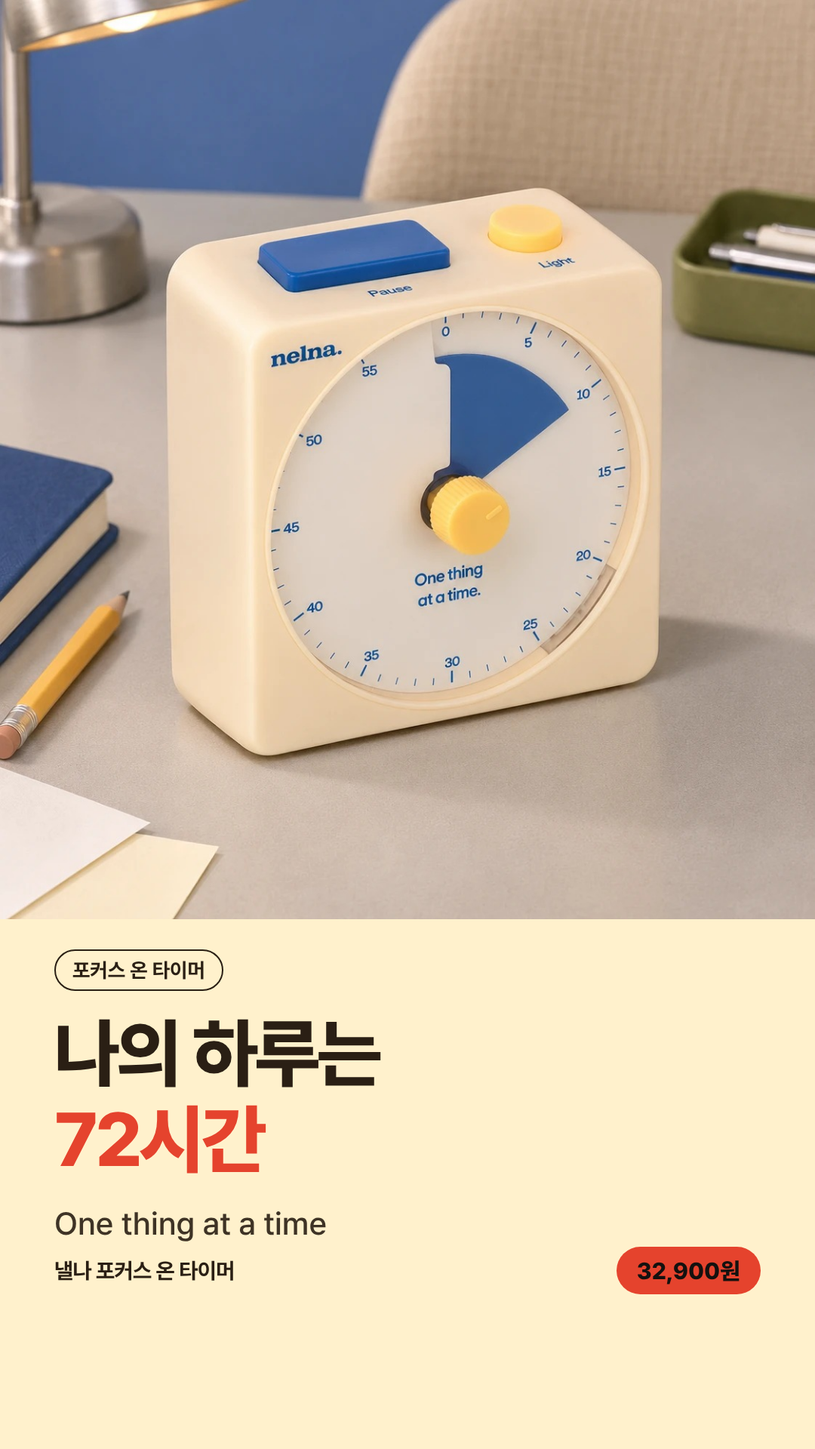
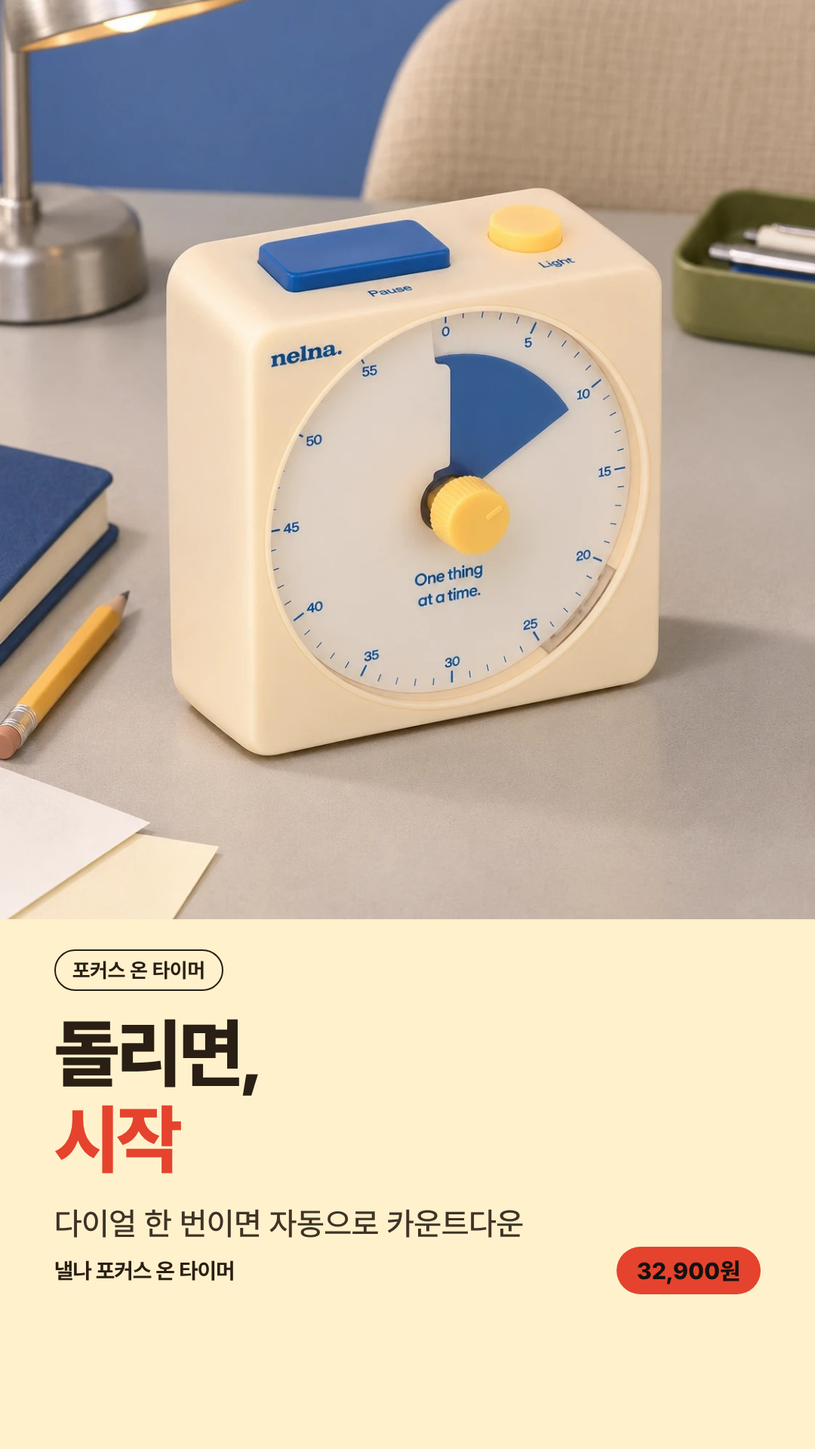
타이머 광고 멘트 전면 교체 (돌리면 시작 / 충전기 말고 건전지 / 폰 말고 타이머 / 인테리어)
Claude-Session: https://claude.ai/code/session_01DXS2KyyyYLycy5YDWmXmGC

Changed region(s): [[0.0611, 0.6875, 0.4583, 0.875], [0.4889, 0.8125, 0.5806, 0.875], [0.6111, 0.8125, 0.6417, 0.875]]

diff --git a/ad-creatives/contact-sheet.html b/ad-creatives/contact-sheet.html
@@ -6,4 +6,4 @@ section{margin-bottom:44px}h2{font-size:20px;margin:0 0 14px}h2 small{color:#888
 figure{margin:0;flex:none;width:300px}figure.s{width:190px}
 img{width:100%;border-radius:10px;display:block;box-shadow:0 2px 10px rgba(0,0,0,.12)}
 figcaption{font-size:12.5px;color:#555;margin-top:8px;line-height:1.45}
-</style></head><body><h1>낼나 광고 소재 컨택트시트</h1><p>피드 4:5 · 스토리 9:16 · 문구 상세는 AD-BRIEF.md</p><section><h2>낼나 포커스 온 타이머 <small>32,900원</small></h2><div class="g"><figure><img loading="lazy" src="out/01-timer_c1_feed.png"><figcaption><b>나의 하루는 72시간</b><br>슬로건 브랜딩 · 컬러별 슬로건 3종을 캐러셀로 확장 가능</figcaption></figure><figure><img loading="lazy" src="out/01-timer_c2_feed.png"><figcaption><b>충전 걱정 없이 6개월</b><br>기능 소구(배터리) · 각주 필수</figcaption></figure><figure><img loading="lazy" src="out/01-timer_c3_feed.png"><figcaption><b>내 성향대로 고르는 알람</b><br>성향 맞춤 · 공부/회의/휴식/SNS 시간 제한 다용도로 확장</figcaption></figure><figure><img loading="lazy" src="out/01-timer_t1_feed.png"><figcaption><b>사진 합성 t1</b><br>나의 하루는 72시간</figcaption></figure><figure><img loading="lazy" src="out/01-timer_t2_feed.png"><figcaption><b>사진 합성 t2</b><br>집중할 땐 조용히, 쉴 땐 당당하게</figcaption></figure><figure><img loading="lazy" src="out/01-timer_t3_feed.png"><figcaption><b>사진 합성 t3</b><br>데스크 위 작은 몰입 스위치</figcaption></figure><figure><img loading="lazy" src="out/01-timer_t4_feed.png"><figcaption><b>사진 합성 t4</b><br>나의 하루는 72시간</figcaption></figure><figure class="s"><img loading="lazy" src="out/01-timer_c1_story.png"><figcaption>스토리/릴스 커버 (c1)</figcaption></figure></div></section><section><h2>낼나 무궁무진 거치대 <small>109,000원</small></h2><div class="g"><figure><img loading="lazy" src="out/02-stand_c1_feed.png"><figcaption><b>거치대, 이제 하나만</b><br>문제 공감(여러 개 사는 불편) → 올인원 해결</figcaption></figure><figure><img loading="lazy" src="out/02-stand_c2_feed.png"><figcaption><b>접으면 4.6mm</b><br>휴대성 수치 소구 · 비교 모델 표기 확인 필요</figcaption></figure><figure><img loading="lazy" src="out/02-stand_c3_feed.png"><figcaption><b>집에서 카페로, 가방 속 작업실</b><br>라이프스타일 · 4단계 각도</figcaption></figure><figure><img loading="lazy" src="out/02-stand_p1_feed.png"><figcaption><b>사진 합성 p1</b><br>집에서 카페로, 가방 속 작업 공간</figcaption></figure><figure><img loading="lazy" src="out/02-stand_p2_feed.png"><figcaption><b>사진 합성 p2</b><br>책 읽을 때도, 태블릿 쓸 때도, 노트북으로 일할 때도. 매번 다른 거치대가 필요했나요?</figcaption></figure><figure class="s"><img loading="lazy" src="out/02-stand_c1_story.png"><figcaption>스토리/릴스 커버 (c1)</figcaption></figure></div></section><section><h2>낼나 펜슬 아이패드용 <small>82,900원</small></h2><div class="g"><figure><img loading="lazy" src="out/03-pencil_c1_feed.png"><figcaption><b>연필 감성 10,000% 아이패드 펜슬</b><br>감성 훅(소리) · 디자인 차별화</figcaption></figure><figure><img loading="lazy" src="out/03-pencil_c2_feed.png"><figcaption><b>레드닷 수상, 3g 더 가벼운 펜슬</b><br>신뢰(수상) + 스펙 비교 · 근거 보관 필요</figcaption></figure><figure><img loading="lazy" src="out/03-pencil_c3_feed.png"><figcaption><b>1초 만에 깨어나는 펜슬</b><br>기능 소구 · 시험 근거 확인 필요</figcaption></figure><figure><img loading="lazy" src="out/03-pencil_p1_feed.png"><figcaption><b>사진 합성 p1</b><br>사각사각 소리가 들리는 것 같지 않나요?</figcaption></figure><figure><img loading="lazy" src="out/03-pencil_p2_feed.png"><figcaption><b>사진 합성 p2</b><br>10만 번 눌러도 끄떡없는 물리 버튼</figcaption></figure><figure class="s"><img loading="lazy" src="out/03-pencil_c1_story.png"><figcaption>스토리/릴스 커버 (c1)</figcaption></figure></div></section><section><h2>낼나 스크런치 케이블 세트 <small>38,900원</small></h2><div class="g"><figure><img loading="lazy" src="out/04-scrunchie_c1_feed.png"><figcaption><b>스트랩 하나로 끝</b><br>문제 공감(2가지 사고) → 1개로 해결</figcaption></figure><figure><img loading="lazy" src="out/04-scrunchie_c2_feed.png"><figcaption><b>케이블이 숨어있는 폰스트랩</b><br>디자인 소구</figcaption></figure><figure><img loading="lazy" src="out/04-scrunchie_c3_feed.png"><figcaption><b>60W 고속충전 폰스트랩</b><br>스펙 소구 · 각주 필수</figcaption></figure><figure><img loading="lazy" src="out/04-scrunchie_p1_feed.png"><figcaption><b>사진 합성 p1</b><br>또 떨어뜨렸어요. 또 충전선 놓고 나왔어요. 스트랩 하나로 끝</figcaption></figure><figure><img loading="lazy" src="out/04-scrunchie_p2_feed.png"><figcaption><b>사진 합성 p2</b><br>예쁘면서 충전까지 되는 폰 스트랩</figcaption></figure><figure class="s"><img loading="lazy" src="out/04-scrunchie_c1_story.png"><figcaption>스토리/릴스 커버 (c1)</figcaption></figure></div></section><section><h2>낼나 나다운 연력 2027 <small>19,500원</small></h2><div class="g"><figure><img loading="lazy" src="out/05-yeonryeok_c1_feed.png"><figcaption><b>1년이 한 장에, 항상 눈앞에</b><br>제품 컨셉 직관 전달</figcaption></figure><figure><img loading="lazy" src="out/05-yeonryeok_c2_feed.png"><figcaption><b>찍기만 해도 기록이에요</b><br>부담 없는 기록 톤 · 다이어리 포기 경험 공감</figcaption></figure><figure><img loading="lazy" src="out/05-yeonryeok_c3_feed.png"><figcaption><b>나다운 1년이 한눈에</b><br>연말 회고 영상/게시물용</figcaption></figure><figure><img loading="lazy" src="out/05-yeonryeok_p1_feed.png"><figcaption><b>사진 합성 p1</b><br>1년이 한 장에, 항상 눈앞에</figcaption></figure><figure><img loading="lazy" src="out/05-yeonryeok_p2_feed.png"><figcaption><b>사진 합성 p2</b><br>쓰기 귀찮은 날엔 콕, 찍기만 하세요. 그것도 기록이에요</figcaption></figure><figure class="s"><img loading="lazy" src="out/05-yeonryeok_c1_story.png"><figcaption>스토리/릴스 커버 (c1)</figcaption></figure></div></section><section><h2>낼나 2027 그랩&amp;스크랩 박스 <small>34,500원</small></h2><div class="g"><figure><img loading="lazy" src="out/06-grabscrap_c1_feed.png"><figcaption><b>올해의 끝, 내년의 시작</b><br>연말 감성 · 선물 소구</figcaption></figure><figure><img loading="lazy" src="out/06-grabscrap_c2_feed.png"><figcaption><b>나에게 보내는 타임캡슐 액자</b><br>경험 소구(개봉) · 반응 높을 훅</figcaption></figure><figure><img loading="lazy" src="out/06-grabscrap_c3_feed.png"><figcaption><b>추억이 벽 위 인테리어가 됩니다</b><br>인테리어 소구</figcaption></figure><figure><img loading="lazy" src="out/06-grabscrap_p1_feed.png"><figcaption><b>사진 합성 p1</b><br>올해의 끝을 붙잡고, 내년을 차곡차곡 쌓아가요</figcaption></figure><figure><img loading="lazy" src="out/06-grabscrap_p2_feed.png"><figcaption><b>사진 합성 p2</b><br>다짐은 봉인하고, 1년 뒤 연말에 열어보세요</figcaption></figure><figure class="s"><img loading="lazy" src="out/06-grabscrap_c1_story.png"><figcaption>스토리/릴스 커버 (c1)</figcaption></figure></div></section><section><h2>낼나 플레이온 키링 어댑터 <small>23,200원</small></h2><div class="g"><figure><img loading="lazy" src="out/07-playon_c1_feed.png"><figcaption><b>이거, 사실 충전기예요</b><br>반전 훅 · 소재 임팩트 최상 (우선 테스트)</figcaption></figure><figure><img loading="lazy" src="out/07-playon_c2_feed.png"><figcaption><b>충전기를 키링처럼</b><br>발상 전환</figcaption></figure><figure><img loading="lazy" src="out/07-playon_c3_feed.png"><figcaption><b>88g, 가방에 걸어두는 충전기</b><br>무게 소구 + 안전성 신뢰</figcaption></figure><figure><img loading="lazy" src="out/07-playon_p1_feed.png"><figcaption><b>사진 합성 p1</b><br>귀여운 MP3 플레이어인 줄 알았죠? 사실은 30W 충전기예요</figcaption></figure><figure><img loading="lazy" src="out/07-playon_p2_feed.png"><figcaption><b>사진 합성 p2</b><br>충전기는 왜 항상 가방 속에 있어야 할까요?</figcaption></figure><figure class="s"><img loading="lazy" src="out/07-playon_c1_story.png"><figcaption>스토리/릴스 커버 (c1)</figcaption></figure></div></section><section><h2>2027 낼나다이어리 <small>에센셜 16,900원 · 시그니처 19,900원</small></h2><div class="g"><figure><img loading="lazy" src="out/08-diary_c1_feed.png"><figcaption><b>계획은 늘 바뀌어요, 괜찮아요</b><br>수정 스트레스 공감 훅 (우선 테스트)</figcaption></figure><figure><img loading="lazy" src="out/08-diary_c2_feed.png"><figcaption><b>일정 아이콘 한 번이면</b><br>직장인 타깃 · 기능 소구 · 정확한 표현 필수</figcaption></figure><figure><img loading="lazy" src="out/08-diary_c3_feed.png"><figcaption><b>11월에 사도 15개월</b><br>시즌 타깃팅 (지금 구매 이유)</figcaption></figure><figure><img loading="lazy" src="out/08-diary_c4_feed.png"><figcaption><b>3개월마다 다시 시작해요</b><br>작심삼일 공감 · 버전 가격 병기</figcaption></figure><figure class="s"><img loading="lazy" src="out/08-diary_c1_story.png"><figcaption>스토리/릴스 커버 (c1)</figcaption></figure></div></section></body></html>
+</style></head><body><h1>낼나 광고 소재 컨택트시트</h1><p>피드 4:5 · 스토리 9:16 · 문구 상세는 AD-BRIEF.md</p><section><h2>낼나 포커스 온 타이머 <small>32,900원</small></h2><div class="g"><figure><img loading="lazy" src="out/01-timer_c1_feed.png"><figcaption><b>돌리면, 시작</b><br>사용 간편성 · 한 줄 훅 (우선 테스트)</figcaption></figure><figure><img loading="lazy" src="out/01-timer_c2_feed.png"><figcaption><b>충전기 말고, 건전지 하나</b><br>기능 소구(배터리) · 각주 필수</figcaption></figure><figure><img loading="lazy" src="out/01-timer_c3_feed.png"><figcaption><b>폰 말고, 타이머에게</b><br>문제 공감(폰 시간) → 용도 확장</figcaption></figure><figure><img loading="lazy" src="out/01-timer_c4_feed.png"><figcaption><b>인테리어가 되는 타이머</b><br>디자인 · 데스크테리어 + 알람/거치 스펙</figcaption></figure><figure><img loading="lazy" src="out/01-timer_t1_feed.png"><figcaption><b>사진 합성 t1</b><br>돌리면, 시작</figcaption></figure><figure><img loading="lazy" src="out/01-timer_t2_feed.png"><figcaption><b>사진 합성 t2</b><br>폰 말고 타이머에게 맡기세요</figcaption></figure><figure><img loading="lazy" src="out/01-timer_t3_feed.png"><figcaption><b>사진 합성 t3</b><br>충전기 말고, 건전지 하나</figcaption></figure><figure><img loading="lazy" src="out/01-timer_t4_feed.png"><figcaption><b>사진 합성 t4</b><br>책상 위에 두면 인테리어가 되는 타이머</figcaption></figure><figure class="s"><img loading="lazy" src="out/01-timer_c1_story.png"><figcaption>스토리/릴스 커버 (c1)</figcaption></figure></div></section><section><h2>낼나 무궁무진 거치대 <small>109,000원</small></h2><div class="g"><figure><img loading="lazy" src="out/02-stand_c1_feed.png"><figcaption><b>거치대, 이제 하나만</b><br>문제 공감(여러 개 사는 불편) → 올인원 해결</figcaption></figure><figure><img loading="lazy" src="out/02-stand_c2_feed.png"><figcaption><b>접으면 4.6mm</b><br>휴대성 수치 소구 · 비교 모델 표기 확인 필요</figcaption></figure><figure><img loading="lazy" src="out/02-stand_c3_feed.png"><figcaption><b>집에서 카페로, 가방 속 작업실</b><br>라이프스타일 · 4단계 각도</figcaption></figure><figure><img loading="lazy" src="out/02-stand_p1_feed.png"><figcaption><b>사진 합성 p1</b><br>집에서 카페로, 가방 속 작업 공간</figcaption></figure><figure><img loading="lazy" src="out/02-stand_p2_feed.png"><figcaption><b>사진 합성 p2</b><br>책 읽을 때도, 태블릿 쓸 때도, 노트북으로 일할 때도. 매번 다른 거치대가 필요했나요?</figcaption></figure><figure class="s"><img loading="lazy" src="out/02-stand_c1_story.png"><figcaption>스토리/릴스 커버 (c1)</figcaption></figure></div></section><section><h2>낼나 펜슬 아이패드용 <small>82,900원</small></h2><div class="g"><figure><img loading="lazy" src="out/03-pencil_c1_feed.png"><figcaption><b>연필 감성 10,000% 아이패드 펜슬</b><br>감성 훅(소리) · 디자인 차별화</figcaption></figure><figure><img loading="lazy" src="out/03-pencil_c2_feed.png"><figcaption><b>레드닷 수상, 3g 더 가벼운 펜슬</b><br>신뢰(수상) + 스펙 비교 · 근거 보관 필요</figcaption></figure><figure><img loading="lazy" src="out/03-pencil_c3_feed.png"><figcaption><b>1초 만에 깨어나는 펜슬</b><br>기능 소구 · 시험 근거 확인 필요</figcaption></figure><figure><img loading="lazy" src="out/03-pencil_p1_feed.png"><figcaption><b>사진 합성 p1</b><br>사각사각 소리가 들리는 것 같지 않나요?</figcaption></figure><figure><img loading="lazy" src="out/03-pencil_p2_feed.png"><figcaption><b>사진 합성 p2</b><br>10만 번 눌러도 끄떡없는 물리 버튼</figcaption></figure><figure class="s"><img loading="lazy" src="out/03-pencil_c1_story.png"><figcaption>스토리/릴스 커버 (c1)</figcaption></figure></div></section><section><h2>낼나 스크런치 케이블 세트 <small>38,900원</small></h2><div class="g"><figure><img loading="lazy" src="out/04-scrunchie_c1_feed.png"><figcaption><b>스트랩 하나로 끝</b><br>문제 공감(2가지 사고) → 1개로 해결</figcaption></figure><figure><img loading="lazy" src="out/04-scrunchie_c2_feed.png"><figcaption><b>케이블이 숨어있는 폰스트랩</b><br>디자인 소구</figcaption></figure><figure><img loading="lazy" src="out/04-scrunchie_c3_feed.png"><figcaption><b>60W 고속충전 폰스트랩</b><br>스펙 소구 · 각주 필수</figcaption></figure><figure><img loading="lazy" src="out/04-scrunchie_p1_feed.png"><figcaption><b>사진 합성 p1</b><br>또 떨어뜨렸어요. 또 충전선 놓고 나왔어요. 스트랩 하나로 끝</figcaption></figure><figure><img loading="lazy" src="out/04-scrunchie_p2_feed.png"><figcaption><b>사진 합성 p2</b><br>예쁘면서 충전까지 되는 폰 스트랩</figcaption></figure><figure class="s"><img loading="lazy" src="out/04-scrunchie_c1_story.png"><figcaption>스토리/릴스 커버 (c1)</figcaption></figure></div></section><section><h2>낼나 나다운 연력 2027 <small>19,500원</small></h2><div class="g"><figure><img loading="lazy" src="out/05-yeonryeok_c1_feed.png"><figcaption><b>1년이 한 장에, 항상 눈앞에</b><br>제품 컨셉 직관 전달</figcaption></figure><figure><img loading="lazy" src="out/05-yeonryeok_c2_feed.png"><figcaption><b>찍기만 해도 기록이에요</b><br>부담 없는 기록 톤 · 다이어리 포기 경험 공감</figcaption></figure><figure><img loading="lazy" src="out/05-yeonryeok_c3_feed.png"><figcaption><b>나다운 1년이 한눈에</b><br>연말 회고 영상/게시물용</figcaption></figure><figure><img loading="lazy" src="out/05-yeonryeok_p1_feed.png"><figcaption><b>사진 합성 p1</b><br>1년이 한 장에, 항상 눈앞에</figcaption></figure><figure><img loading="lazy" src="out/05-yeonryeok_p2_feed.png"><figcaption><b>사진 합성 p2</b><br>쓰기 귀찮은 날엔 콕, 찍기만 하세요. 그것도 기록이에요</figcaption></figure><figure class="s"><img loading="lazy" src="out/05-yeonryeok_c1_story.png"><figcaption>스토리/릴스 커버 (c1)</figcaption></figure></div></section><section><h2>낼나 2027 그랩&amp;스크랩 박스 <small>34,500원</small></h2><div class="g"><figure><img loading="lazy" src="out/06-grabscrap_c1_feed.png"><figcaption><b>올해의 끝, 내년의 시작</b><br>연말 감성 · 선물 소구</figcaption></figure><figure><img loading="lazy" src="out/06-grabscrap_c2_feed.png"><figcaption><b>나에게 보내는 타임캡슐 액자</b><br>경험 소구(개봉) · 반응 높을 훅</figcaption></figure><figure><img loading="lazy" src="out/06-grabscrap_c3_feed.png"><figcaption><b>추억이 벽 위 인테리어가 됩니다</b><br>인테리어 소구</figcaption></figure><figure><img loading="lazy" src="out/06-grabscrap_p1_feed.png"><figcaption><b>사진 합성 p1</b><br>올해의 끝을 붙잡고, 내년을 차곡차곡 쌓아가요</figcaption></figure><figure><img loading="lazy" src="out/06-grabscrap_p2_feed.png"><figcaption><b>사진 합성 p2</b><br>다짐은 봉인하고, 1년 뒤 연말에 열어보세요</figcaption></figure><figure class="s"><img loading="lazy" src="out/06-grabscrap_c1_story.png"><figcaption>스토리/릴스 커버 (c1)</figcaption></figure></div></section><section><h2>낼나 플레이온 키링 어댑터 <small>23,200원</small></h2><div class="g"><figure><img loading="lazy" src="out/07-playon_c1_feed.png"><figcaption><b>이거, 사실 충전기예요</b><br>반전 훅 · 소재 임팩트 최상 (우선 테스트)</figcaption></figure><figure><img loading="lazy" src="out/07-playon_c2_feed.png"><figcaption><b>충전기를 키링처럼</b><br>발상 전환</figcaption></figure><figure><img loading="lazy" src="out/07-playon_c3_feed.png"><figcaption><b>88g, 가방에 걸어두는 충전기</b><br>무게 소구 + 안전성 신뢰</figcaption></figure><figure><img loading="lazy" src="out/07-playon_p1_feed.png"><figcaption><b>사진 합성 p1</b><br>귀여운 MP3 플레이어인 줄 알았죠? 사실은 30W 충전기예요</figcaption></figure><figure><img loading="lazy" src="out/07-playon_p2_feed.png"><figcaption><b>사진 합성 p2</b><br>충전기는 왜 항상 가방 속에 있어야 할까요?</figcaption></figure><figure class="s"><img loading="lazy" src="out/07-playon_c1_story.png"><figcaption>스토리/릴스 커버 (c1)</figcaption></figure></div></section><section><h2>2027 낼나다이어리 <small>에센셜 16,900원 · 시그니처 19,900원</small></h2><div class="g"><figure><img loading="lazy" src="out/08-diary_c1_feed.png"><figcaption><b>계획은 늘 바뀌어요, 괜찮아요</b><br>수정 스트레스 공감 훅 (우선 테스트)</figcaption></figure><figure><img loading="lazy" src="out/08-diary_c2_feed.png"><figcaption><b>일정 아이콘 한 번이면</b><br>직장인 타깃 · 기능 소구 · 정확한 표현 필수</figcaption></figure><figure><img loading="lazy" src="out/08-diary_c3_feed.png"><figcaption><b>11월에 사도 15개월</b><br>시즌 타깃팅 (지금 구매 이유)</figcaption></figure><figure><img loading="lazy" src="out/08-diary_c4_feed.png"><figcaption><b>3개월마다 다시 시작해요</b><br>작심삼일 공감 · 버전 가격 병기</figcaption></figure><figure class="s"><img loading="lazy" src="out/08-diary_c1_story.png"><figcaption>스토리/릴스 커버 (c1)</figcaption></figure></div></section></body></html>

diff --git a/ad-creatives/AD-BRIEF.md b/ad-creatives/AD-BRIEF.md
@@ -28,51 +28,65 @@
 ### 집행 전 확인
 
 - “6개월”은 **하루 3시간 사용 기준**이라 소재에 각주를 꼭 넣었습니다. 각주 없이 “6개월”만 쓰지 마세요.
-- 건전지 포함 여부, 건전지 종류 수량이 상세페이지 요약에 없습니다. “충전 필요 없음”까지만 말하고 “건전지 포함”은 확인 후 사용하세요.
-- “단 1시간의 집중력이 내일을 바꿉니다”는 효과 보장처럼 읽힐 수 있어 광고 본문에는 쓰지 않았습니다(상세페이지 용도로만).
-- “디자인 등록 완료”를 광고에 쓰려면 등록번호 확인이 필요합니다.
+- 건전지 포함 여부, 건전지 수량이 상세페이지 요약에 없습니다. “충전 필요 없음”까지만 말하고 “건전지 포함”은 확인 후 사용하세요.
+- “폰 말고 타이머에게” 소재는 사용 예시(SNS 시간 제한 등)를 보여주는 표현입니다. 집중력 향상 같은 효과를 보장하는 문구는 쓰지 않았습니다.
+- “디자인 등록 완료”를 광고에 쓰려면 등록번호 확인이 필요합니다(이번 소재에는 넣지 않았습니다).
+- “10가지 알람”은 소리(무음/작게/크게) × 길이(3초/30초) × 라이트 조합 수치입니다. 숫자를 바꿀 땐 상세페이지와 맞추세요.
 
 ### 소재
 
-#### 01-timer_c1 · statement · 슬로건 브랜딩 · 컬러별 슬로건 3종을 캐러셀로 확장 가능
+#### 01-timer_c1 · statement · 사용 간편성 · 한 줄 훅 (우선 테스트)
 
 ![01-timer_c1](out/01-timer_c1_feed.png)
 
-- **이미지 문구**: 나의 하루는 72시간
-- **메타 헤드라인**: 나의 하루는 72시간
-- **메타 설명**: 낼나 포커스 온 타이머 32,900원
+- **이미지 문구**: 돌리면, 시작
+- **메타 헤드라인**: 돌리면, 시작
+- **메타 설명**: 다이얼 한 번이면 자동 카운트다운
 - **CTA 버튼**: 지금 쇼핑하기
 - **본문**:
 
-  > 하루는 24시간인데, 집중하면 72시간처럼 쓸 수 있다면?
-  > 다이얼만 돌리면 바로 카운트다운. 클래식·버터·토마토, 책상 위에 두면 인테리어까지.
+  > 공부할 때도, 회의할 때도, 잠깐 쉴 때도.
+  > 다이얼만 돌리면 바로 카운트다운이 시작돼요. 클래식·버터·토마토, 책상 위에 두면 인테리어까지.
 
 #### 01-timer_c2 · stat · 기능 소구(배터리) · 각주 필수
 
 ![01-timer_c2](out/01-timer_c2_feed.png)
 
-- **이미지 문구**: 데스크 위 작은 몰입 스위치
-- **메타 헤드라인**: 충전 걱정 없이 6개월
-- **메타 설명**: 다이얼만 돌리면 바로 시작
+- **이미지 문구**: 충전기 말고, 건전지 하나
+- **메타 헤드라인**: 충전기 말고, 건전지 하나
+- **메타 설명**: 하루 3시간 사용 기준 6개월
 - **CTA 버튼**: 지금 쇼핑하기
 - **본문**:
 
-  > 충전하는 걸 깜빡해서 타이머가 꺼져 있던 적 있나요?
-  > 건전지로 쓰는 포커스 온 타이머는 매일 3시간씩 써도 6개월을 씁니다.
+  > 책상 위 타이머까지 충전해야 한다면 너무 번거롭잖아요.
+  > AAA건전지 방식이라 충전 없이 쓰고, 하루 3시간씩 써도 6개월을 씁니다.
   > * 하루 3시간 사용 기준
 
-#### 01-timer_c3 · list · 성향 맞춤 · 공부/회의/휴식/SNS 시간 제한 다용도로 확장
+#### 01-timer_c3 · chat · 문제 공감(폰 시간) → 용도 확장
 
 ![01-timer_c3](out/01-timer_c3_feed.png)
 
-- **이미지 문구**: 집중할 땐 조용히, 쉴 땐 당당하게
-- **메타 헤드라인**: 내 성향대로 고르는 알람
-- **메타 설명**: 무음 / 작게 / 크게 × 3초 / 30초 × 라이트
+- **이미지 문구**: 공부할 때도, 회의할 때도, 쉴 때도. / 폰 말고 타이머에게 맡기세요
+- **메타 헤드라인**: 폰 말고, 타이머에게
+- **메타 설명**: 공부·회의·휴식·SNS 시간 제한
 - **CTA 버튼**: 더 알아보기
 - **본문**:
 
-  > 도서관에선 무음, 집에선 크게, 회의 중엔 라이트만.
-  > 내 상황과 성향대로 고르는 10가지 알람 타입. 집중할 땐 조용히, 쉴 땐 당당하게.
+  > 스마트폰 잠깐 본다는 게 한 시간이 되는 날, 있죠?
+  > 시간 관리는 폰 말고 타이머에게 맡기세요. 공부, 회의, 휴식, SNS 시간 제한까지 쓰임이 다양해요.
+
+#### 01-timer_c4 · list · 디자인 · 데스크테리어 + 알람/거치 스펙
+
+![01-timer_c4](out/01-timer_c4_feed.png)
+
+- **이미지 문구**: 책상 위에 두면 인테리어가 되는 타이머
+- **메타 헤드라인**: 인테리어가 되는 타이머
+- **메타 설명**: 3색 · 10가지 알람 · 4가지 거치
+- **CTA 버튼**: 지금 쇼핑하기
+- **본문**:
+
+  > 책상 위에 두면 인테리어가 되는 타이머.
+  > 클래식·버터·토마토 3가지 색, 무음부터 크게까지 10가지 알람, 스탠드·스탠드바·후크고리·마그넷 4가지 거치 방식으로 어디든 두세요.
 
 ### 제품 사진 합성 시안
 
@@ -90,16 +104,16 @@
 
 ![01-timer_t4](out/01-timer_t4_feed.png)
 
-- 01-timer_t4 · 본문·헤드라인·CTA는 **c1** 와 동일
+- 01-timer_t4 · 본문·헤드라인·CTA는 **c4** 와 동일
 
 ### 영상 스크립트 (15초 · 9:16 릴스)
 
 | 구간 | 내용 |
 |---|---|
-| 0–3초 | [훅] 책상 위 폰이 계속 진동 → 손이 타이머 다이얼만 돌림. 자막 “집중, 이렇게 시작해요” |
-| 3–9초 | [시연] 다이얼 돌림 → 자동 카운트다운. 알람 3종(무음 / 작게 / 크게) 클로즈업, 라이트 on/off |
-| 9–13초 | [데스크테리어] 클래식·버터·토마토 3색 나란히. 자막 “나의 하루는 72시간” |
-| 13–15초 | [CTA] 제품 + 가격 32,900원 + 자막 “충전 없이 건전지로 (하루 3시간 기준 6개월)” |
+| 0–3초 | [훅] 책상 위에서 폰 화면을 스크롤하다가, 손이 타이머 다이얼을 돌림. 자막 “폰 말고, 타이머에게” |
+| 3–8초 | [시연] 다이얼을 돌리면 자동 카운트다운 시작. 자막 “돌리면, 시작”. 알람 무음 / 작게 / 크게, 라이트 on/off 클로즈업 |
+| 8–13초 | [쓰임] 공부 · 회의 · 휴식 장면 컷. 스탠드 · 스탠드바 · 후크고리 · 마그넷으로 여기저기 거치. 자막 “책상 위에 두면 인테리어” |
+| 13–15초 | [CTA] 클래식 · 버터 · 토마토 3색 나란히 + 32,900원 + 자막 “충전기 말고 건전지 하나 (하루 3시간 기준 6개월)” |
 
 ---
 
